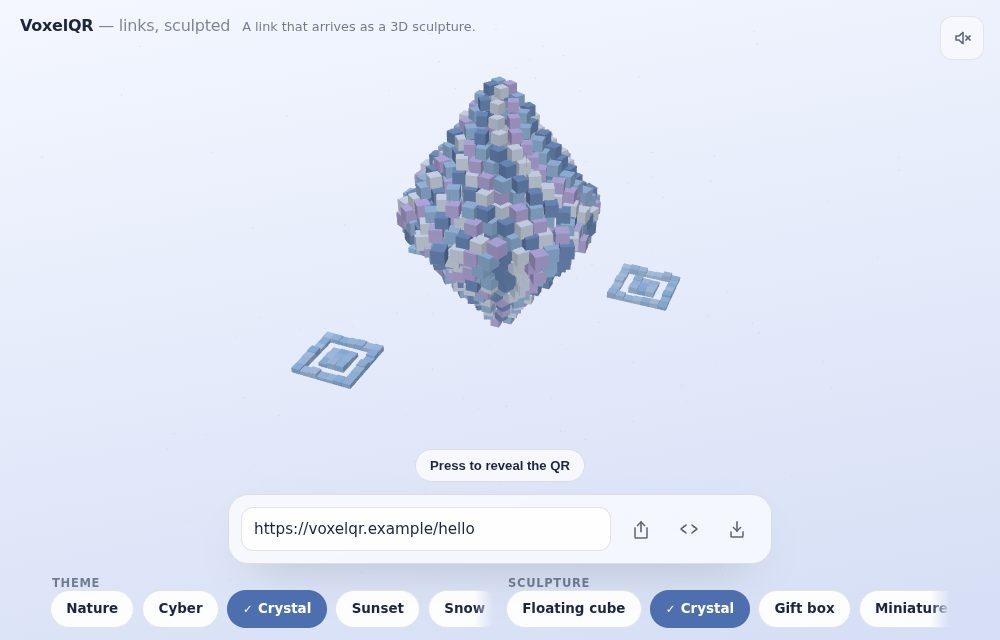
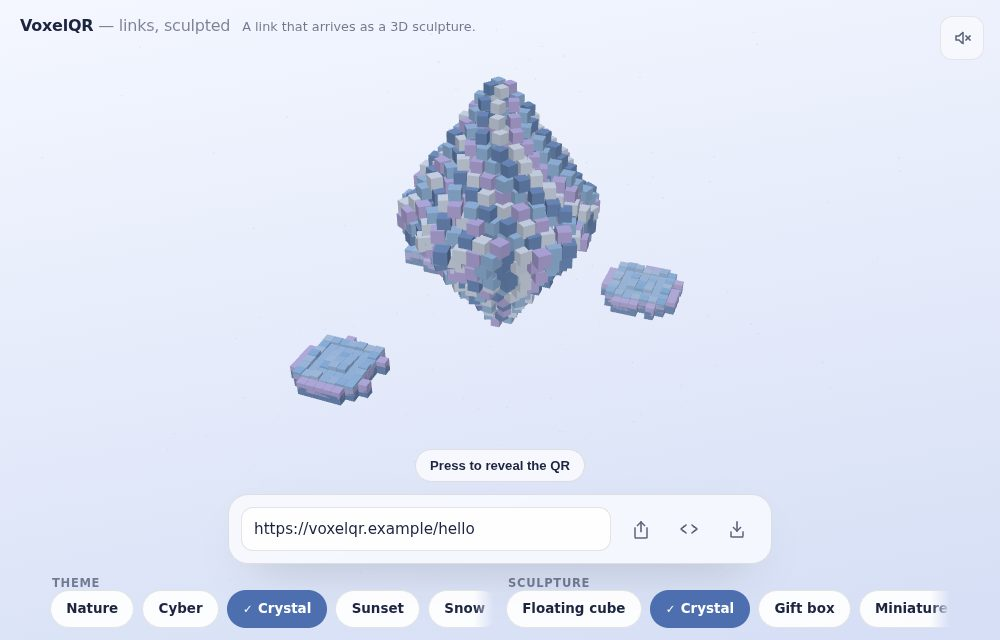
Ground the finder squares in scenery, and darken the code where it was thin
Finder squares. Bare rings floating on nothing read as markers rather
than part of the world. Each one now sits on a small pad of decorative
voxels drawn from the sculpture's own palette — a surface course over
earth, corners nibbled so it reads as ground rather than a tile — so the
three squares become little plots belonging to the same scene. They are
decoration, not code: marked isPedestal, they fade with the reveal and
never claim a module, which the layout tests now assert separately from
sculpture cubes.

Contrast, which was a fair catch. An audit of every theme showed the
solid pair at 15-19:1 but the mosaic's lightest modules at ~5:1 —
comfortable for text, thin for a QR module, and precisely the module a
binarizer misreads under glare. Floors raised to 7:1 for data and 9:1
for structure; the colours simply run deeper and the mosaic survives.

The 2D fallback now drops the mosaic entirely for the solid pair. It
renders where WebGL could not — the weakest devices, often the poorest
screens — so decoration is the wrong trade there. Measured: it decodes
down to 25% of capture size, now guarded by its own test. The 3D scan
state is unchanged at 10%.

Also fixes a genuinely flaky decode at 1920px@2x: revealAndSettle waited
a fixed 600ms after the phase flip, which is not enough under a software
rasteriser with workers competing. It now waits for two identical
captures — the condition actually required, a motionless code — instead
of guessing a delay.
[…]

Changed region(s): [[0.403, 0.2188, 0.589, 0.4688], [0.279, 0.5, 0.403, 0.6562], [0.589, 0.4062, 0.682, 0.5]]

diff --git a/tests/e2e/scan-margin.spec.ts b/tests/e2e/scan-margin.spec.ts
@@ -1,7 +1,7 @@
 import { expect, test } from '@playwright/test';
 import { decodeQrFromPng } from './decode';
 import { downscalePng } from './degrade';
-import { openExperience, revealAndSettle, screenshotScene } from './helpers';
+import { experienceUrl, openExperience, revealAndSettle, screenshotScene } from './helpers';
 
 const SHORT = 'https://voxelqr.example/hello';
 const LONG = `https://voxelqr.example/c/${'segment/'.repeat(18)}end`;
@@ -19,9 +19,14 @@ async function scanMargin(page: import('@playwright/test').Page, url: string): P
   const full = await screenshotScene(page);
   expect(decodeQrFromPng(full), 'the full-size capture must decode').toBe(url);
 
+  return shrinkUntilUnreadable(full, url);
+}
+
+/** Smallest fraction of `image` that still decodes to `url`. */
+function shrinkUntilUnreadable(image: Buffer, url: string): number {
   let smallest = 1;
   for (const factor of [0.6, 0.5, 0.4, 0.3, 0.25, 0.2, 0.15, 0.1]) {
-    if (decodeQrFromPng(downscalePng(full, factor)) !== url) break;
+    if (decodeQrFromPng(downscalePng(image, factor)) !== url) break;
     smallest = factor;
   }
   return smallest;
@@ -45,5 +50,35 @@ test.describe('scanning headroom', () => {
   test('a long link keeps real headroom, not just a full-size pass', async ({ page }) => {
     const margin = await scanMargin(page, LONG);
     expect(margin, `long link decoded down to ${margin * 100}%`).toBeLessThanOrEqual(0.3);
+  });
+});
+
+test.describe('the 2D fallback', () => {
+  /**
+   * The fallback renders where WebGL could not — the weakest devices, often
+   * the poorest screens — so it drops the theme mosaic for the solid
+   * contrast-guaranteed pair (15:1 or better against the mosaic's 7:1 floor).
+   * This asserts the result is comfortably readable, not merely decodable.
+   */
+  test('is high-contrast and readable well below capture resolution', async ({ page }) => {
+    await page.addInitScript(() => {
+      const original = HTMLCanvasElement.prototype.getContext;
+      HTMLCanvasElement.prototype.getContext = function patched(
+        this: HTMLCanvasElement,
+        type: string,
+        ...rest: unknown[]
+      ) {
+        if (type.includes('webgl')) return null;
+        return (original as (...args: unknown[]) => unknown).call(this, type, ...rest);
+      } as typeof HTMLCanvasElement.prototype.getContext;
+    });
+
+    await page.goto(experienceUrl({ url: SHORT, theme: 'nature' }));
+    await page.getByTestId('fallback-qr').waitFor();
+    const shot = await page.getByTestId('fallback-canvas').screenshot({ scale: 'device' });
+
+    expect(decodeQrFromPng(shot)).toBe(SHORT);
+    const margin = shrinkUntilUnreadable(shot, SHORT);
+    expect(margin, `fallback decoded down to ${margin * 100}%`).toBeLessThanOrEqual(0.35);
   });
 });

diff --git a/tests/unit/voxel-layout.spec.ts b/tests/unit/voxel-layout.spec.ts
@@ -108,7 +108,9 @@ describe('buildQrLayout', () => {
   it('stands the sculpture on the plinth, inside the code footprint', () => {
     const layout = layoutFor('city', 1400);
     const qrRadius = layout.qrWorldSize / 2;
-    const decorative = layout.instances.filter((instance) => !instance.isQrModule);
+    const decorative = layout.instances.filter(
+      (instance) => !instance.isQrModule && !instance.isPedestal,
+    );
     expect(decorative.length).toBeGreaterThan(100);
     for (const instance of decorative) {
       const [x, y, z] = instance.sculpturePosition;
@@ -120,13 +122,34 @@ describe('buildQrLayout', () => {
   it('sends every sculpture cube into a dark module and fades it out', () => {
     const layout = layoutFor('island');
     for (const instance of layout.instances) {
-      if (instance.isQrModule) continue;
+      if (instance.isQrModule || instance.isPedestal) continue;
       expect(instance.qrScale).toBe(0);
       const [x, y, z] = instance.qrPosition;
       expect(y).toBeCloseTo(TILE_HEIGHT / 2, 10);
       const column = Math.round(x / MODULE_SPACING + matrix.size / 2 - 0.5);
       const row = Math.round(z / MODULE_SPACING + matrix.size / 2 - 0.5);
       expect(moduleAt(matrix, row, column)).toBe(true);
+    }
+  });
+
+  it('grounds each finder square in decorative scenery that fades, not code', () => {
+    const layout = layoutFor('island');
+    const pedestals = layout.instances.filter((instance) => instance.isPedestal);
+    expect(pedestals.length).toBeGreaterThan(50);
+
+    const qrRadius = layout.qrWorldSize / 2;
+    for (const instance of pedestals) {
+      // Decoration: it vanishes at scan time and never claims a module.
+      expect(instance.isQrModule).toBe(false);
+      expect(instance.qrScale).toBe(0);
+      // It is the ground under a square, so it stays put rather than diving
+      // into the code the way an absorbed sculpture cube does.
+      expect(instance.qrPosition).toEqual(instance.sculpturePosition);
+      // And it sits below the module plane, inside the presentation area.
+      expect(instance.sculpturePosition[1]).toBeLessThan(0);
+      expect(Math.hypot(instance.sculpturePosition[0], instance.sculpturePosition[2])).toBeLessThan(
+        qrRadius * 1.2,
+      );
     }
   });
 

diff --git a/src/voxel/build-qr-layout.ts b/src/voxel/build-qr-layout.ts
@@ -100,6 +100,52 @@ export function buildQrLayout(options: LayoutOptions): VoxelLayout {
     }
   }
 
+  /**
+   * Pedestals under the finder squares.
+   *
+   * The three squares are the only part of the code that exists at rest, and
+   * bare rings floating on nothing read as markers rather than scenery. Each
+   * one gets a small pad of decorative voxels beneath and around it, built
+   * from the sculpture's own palette — earth under grass, a stone footing —
+   * so the squares become three little plots belonging to the same world.
+   *
+   * They are decoration, not code: like every sculpture cube they fade out as
+   * the reveal runs, leaving the exact modules behind.
+   */
+  const finderCentres: Array<[number, number]> = [
+    [3, 3],
+    [3, matrix.size - 4],
+    [matrix.size - 4, 3],
+  ];
+  for (const [centreRow, centreColumn] of finderCentres) {
+    for (let dr = -4; dr <= 4; dr += 1) {
+      for (let dc = -4; dc <= 4; dc += 1) {
+        // Nibble the corners so the pad reads as ground, not as a tile.
+        const edge = Math.max(Math.abs(dr), Math.abs(dc));
+        if (edge === 4 && Math.abs(dr) + Math.abs(dc) >= 7) continue;
+        if (edge === 4 && rng() > 0.55) continue;
+        const [x, , z] = modulePosition(matrix, centreRow + dr, centreColumn + dc);
+        // Two layers: a surface course and the earth it sits on.
+        for (let layer = 0; layer < 2; layer += 1) {
+          const y = -0.28 - layer * 0.56;
+          instances.push({
+            sculpturePosition: [x, y, z],
+            sculptureRotation: [0, 0, 0],
+            sculptureScale: 1,
+            qrPosition: [x, y, z],
+            qrRotation: [0, 0, 0],
+            qrScale: 0,
+            colorIndex: layer === 0 ? (edge >= 3 ? 1 : 0) : 3,
+            delay: 0.05 + rng() * 0.2,
+            isQrModule: false,
+            isPedestal: true,
+            scatter: [(rng() - 0.5) * 2, rng() * 1.5, (rng() - 0.5) * 2],
+          });
+        }
+      }
+    }
+  }
+
   // ---- Sculpture standing on the plinth ----
   const raw = buildSculptureLayout(sculpture, { count: sculptureCount, seed });
 

diff --git a/src/app/App.tsx b/src/app/App.tsx
@@ -6,9 +6,6 @@ import { FallbackQr } from '../components/fallback/FallbackQr';
 import { LiveRegion } from '../components/LiveRegion';
 import { IconButton } from '../components/controls/icons';
 import { getTheme, resolveQrColors } from '../themes/themes';
-import { buildModuleRamp, moduleColorAt } from '../themes/module-colors';
-import { isProtectedModule } from '../qr/generate-matrix';
-import { hashString } from '../voxel/rng';
 import { QUALITY_PROFILES, detectWebglSupport } from '../lib/quality';
 import { prefersReducedMotion, subscribeToReducedMotion } from '../animation/motion-preferences';
 import { useElementHeight } from '../lib/use-element-height';
@@ -153,14 +150,6 @@ export function App() {
     useExperienceStore.setState({ phase: 'sculpture' });
   }, [layoutKey, controller]);
 
-  const fallbackModuleColor = useMemo(() => {
-    const ramp = buildModuleRamp(theme, qrColors.background);
-    const seed = hashString(`${state.matrix.value}:${theme.id}`);
-    const matrix = state.matrix;
-    return (row: number, column: number) =>
-      moduleColorAt(ramp, seed, row, column, isProtectedModule(matrix, row, column));
-  }, [theme, qrColors.background, state.matrix]);
-
   const shareTargetUrl = useMemo(
     () => state.shareUrl(window.location.href),
     // Recomputed whenever any part of the shared payload changes.
@@ -293,7 +282,6 @@ export function App() {
             matrix={state.matrix}
             foreground={qrColors.foreground}
             background={qrColors.background}
-            moduleColor={fallbackModuleColor}
             reason="This device cannot run the 3D scene, so here is the code on its own."
           />
         )}
@@ -365,7 +353,6 @@ export function App() {
           matrix={state.matrix}
           foreground={qrColors.foreground}
           background={qrColors.background}
-          moduleColor={fallbackModuleColor}
           reason="This device cannot run the 3D scene, so here is the code on its own. Everything else still works."
         />
       )}

diff --git a/src/components/fallback/FallbackQr.tsx b/src/components/fallback/FallbackQr.tsx
@@ -6,8 +6,6 @@ export interface FallbackQrProps {
   matrix: QrMatrix;
   foreground: string;
   background: string;
-  /** Optional per-module mosaic colour, for visual parity with the 3D scene. */
-  moduleColor?: (row: number, column: number) => string;
   /** Explains why the 2D code is being shown. */
   reason: string;
 }
@@ -15,23 +13,20 @@ export interface FallbackQrProps {
 /**
  * The guaranteed-working 2D code.
  *
- * Shown when WebGL is unavailable, and used by the e2e suite as the reference
- * against which the rendered 3D code is compared.
+ * Shown when WebGL is unavailable — that is, on the weakest devices, and often
+ * the poorest screens. It deliberately drops the theme mosaic and uses the
+ * solid contrast-guaranteed pair (15:1 or better on every theme, against the
+ * mosaic's 7:1 floor). This is the path that has to work when nothing else
+ * did; decoration is the wrong trade here.
  */
-export function FallbackQr({
-  matrix,
-  foreground,
-  background,
-  moduleColor,
-  reason,
-}: FallbackQrProps) {
+export function FallbackQr({ matrix, foreground, background, reason }: FallbackQrProps) {
   const canvasRef = useRef<HTMLCanvasElement>(null);
 
   useEffect(() => {
     const context = canvasRef.current?.getContext('2d');
     if (!context) return;
-    drawCanonicalQr(context, matrix, { foreground, background, moduleColor, modulePixels: 10 });
-  }, [matrix, foreground, background, moduleColor]);
+    drawCanonicalQr(context, matrix, { foreground, background, modulePixels: 10 });
+  }, [matrix, foreground, background]);
 
   return (
     <div className="fallback" data-testid="fallback-qr">

diff --git a/src/themes/module-colors.ts b/src/themes/module-colors.ts
@@ -12,13 +12,18 @@ import type { Theme } from './themes';
  * darkened, colour by colour, until it clears the floor below, giving a warm
  * mosaic (autumn oranges, neon violets, glacier blues) that still scans.
  *
- * The floors are deliberately above what binarizers need — and the e2e decode
- * matrix, which screenshots and decodes every theme, remains the actual gate.
+ * The floors were originally 5:1 and 6.5:1, which is comfortable for text and
+ * thin for a QR module: a lightly-tinted module on a cheap or glare-lit screen
+ * is exactly the one a binarizer misreads. They are now 7:1 and 9:1, which
+ * still leaves plenty of hue — the colours simply run deeper.
+ *
+ * The e2e decode matrix, which screenshots and decodes every theme, remains
+ * the actual gate.
  */
-export const MIN_MODULE_CONTRAST = 5;
+export const MIN_MODULE_CONTRAST = 7;
 
 /** Finder and timing patterns drive detection, so they sit darker still. */
-export const MIN_STRUCTURAL_CONTRAST = 6.5;
+export const MIN_STRUCTURAL_CONTRAST = 9;
 
 const BLACK: Rgb = { r: 0, g: 0, b: 0 };
 
@@ -50,7 +55,7 @@ export function buildModuleRamp(theme: Theme, background: string): ModuleRamp {
   for (const base of bases) {
     const safe = darkenUntil(base, background, MIN_MODULE_CONTRAST);
     if (!data.includes(safe)) data.push(safe);
-    const deeper = darkenUntil(safe, background, MIN_MODULE_CONTRAST + 1.5);
+    const deeper = darkenUntil(safe, background, MIN_MODULE_CONTRAST + 2.5);
     if (!data.includes(deeper)) data.push(deeper);
   }
   const structural = bases

diff --git a/tests/e2e/helpers.ts b/tests/e2e/helpers.ts
@@ -38,13 +38,32 @@ export async function openExperience(page: Page, options: ExperienceOptions): Pr
   await page.waitForTimeout(400);
 }
 
+/**
+ * Wait until the scene stops changing.
+ *
+ * The phase flips to scan-ready when the timeline completes, but the renderer
+ * may still be presenting the last frames — and under a software rasteriser
+ * with several workers competing, "a couple of frames" is not a fixed number
+ * of milliseconds. Comparing successive captures waits for the thing actually
+ * required (a motionless code) rather than guessing at a delay.
+ */
+export async function waitForStableScene(page: Page, timeoutMs = 15_000): Promise<Buffer> {
+  const deadline = Date.now() + timeoutMs;
+  let previous = await screenshotScene(page);
+  while (Date.now() < deadline) {
+    await page.waitForTimeout(150);
+    const current = await screenshotScene(page);
+    if (Buffer.compare(previous, current) === 0) return current;
+    previous = current;
+  }
+  return previous;
+}
+
 /** Reveal the QR and wait for the locked, motionless scan-ready state. */
 export async function revealAndSettle(page: Page): Promise<void> {
   await page.getByTestId('reveal-button').click();
   await page.getByTestId('phase').filter({ hasText: 'scan-ready' }).waitFor({ timeout: 20_000 });
-  // The timeline has finished; give the renderer a couple of frames to present
-  // the final state before the screenshot is taken.
-  await page.waitForTimeout(600);
+  await waitForStableScene(page);
 }
 
 /** Screenshot just the WebGL canvas. */

diff --git a/tests/unit/module-colors.spec.ts b/tests/unit/module-colors.spec.ts
@@ -42,3 +42,20 @@ describe('module mosaic colours', () => {
     expect(ramp.structural).toContain(structural);
   });
 });
+
+describe('contrast floors', () => {
+  it('keeps mosaic modules well clear of the text-contrast threshold', () => {
+    // 5:1 is comfortable for text and thin for a QR module: a lightly-tinted
+    // module on a glare-lit screen is exactly the one a binarizer misreads.
+    expect(MIN_MODULE_CONTRAST).toBeGreaterThanOrEqual(7);
+    expect(MIN_STRUCTURAL_CONTRAST).toBeGreaterThan(MIN_MODULE_CONTRAST);
+  });
+
+  it('leaves the solid pair stronger still, for the 2D fallback', () => {
+    // The fallback runs where WebGL could not, so it uses this pair rather
+    // than the mosaic.
+    for (const id of THEME_IDS) {
+      expect(resolveQrColors(getTheme(id)).ratio).toBeGreaterThanOrEqual(12);
+    }
+  });
+});

diff --git a/src/voxel/types.ts b/src/voxel/types.ts
@@ -40,6 +40,12 @@ export interface VoxelInstance {
   module?: [number, number];
   /** True for the three corner finder squares, which exist at rest. */
   isFinder?: boolean;
+  /**
+   * True for the decorative ground beneath a finder square. Unlike sculpture
+   * cubes these stay where they are and simply fade, because they are the
+   * scenery the squares sit in rather than something being absorbed.
+   */
+  isPedestal?: boolean;
   /** Restrained random offset used during the scatter stage. */
   scatter: [number, number, number];
 }

diff --git a/README.md b/README.md
@@ -6,8 +6,9 @@ By **Lewis John Villamor**
 
 ![VoxelQR — a voxel island standing on its QR base](docs/media/app-idle.jpg)
 
-VoxelQR renders a link as a voxel sculpture with three voxel finder squares
-resting around it — no platform, no visible code. Press the sculpture and the
+VoxelQR renders a link as a voxel sculpture with three small voxel plots
+resting around it — the finder squares, grounded in scenery built from the same
+palette. No platform, no visible code. Press the sculpture and the
 camera tilts to a perfect top-down view while the code grows out of the ground
 and the sculpture is absorbed into it. Press **Return to sculpture** and the
 same timeline runs backwards.
@@ -137,6 +138,15 @@ a module budget, never dropping below `M` (15% recovery, the usual print
 default). Short links keep `H` and lose nothing; the long link gained roughly
 6.7x more scanning distance. `tests/e2e/scan-margin.spec.ts` locks that in — pin
 the level back to `H` and it fails.
+
+The same measurement drove two more decisions. The mosaic's contrast floors were
+raised from 5:1 and 6.5:1 to **7:1 and 9:1** — 5:1 is comfortable for text and
+thin for a QR module, and a lightly-tinted module on a glare-lit screen is
+exactly the one a binarizer misreads. And the 2D fallback drops the mosaic
+entirely for the solid contrast-guaranteed pair (**15:1 or better** on every
+theme): it renders where WebGL could not, on the weakest devices and often the
+poorest screens, so decoration is the wrong trade. It decodes down to 25% of
+capture size, guarded by its own test.
 
 ---
 
